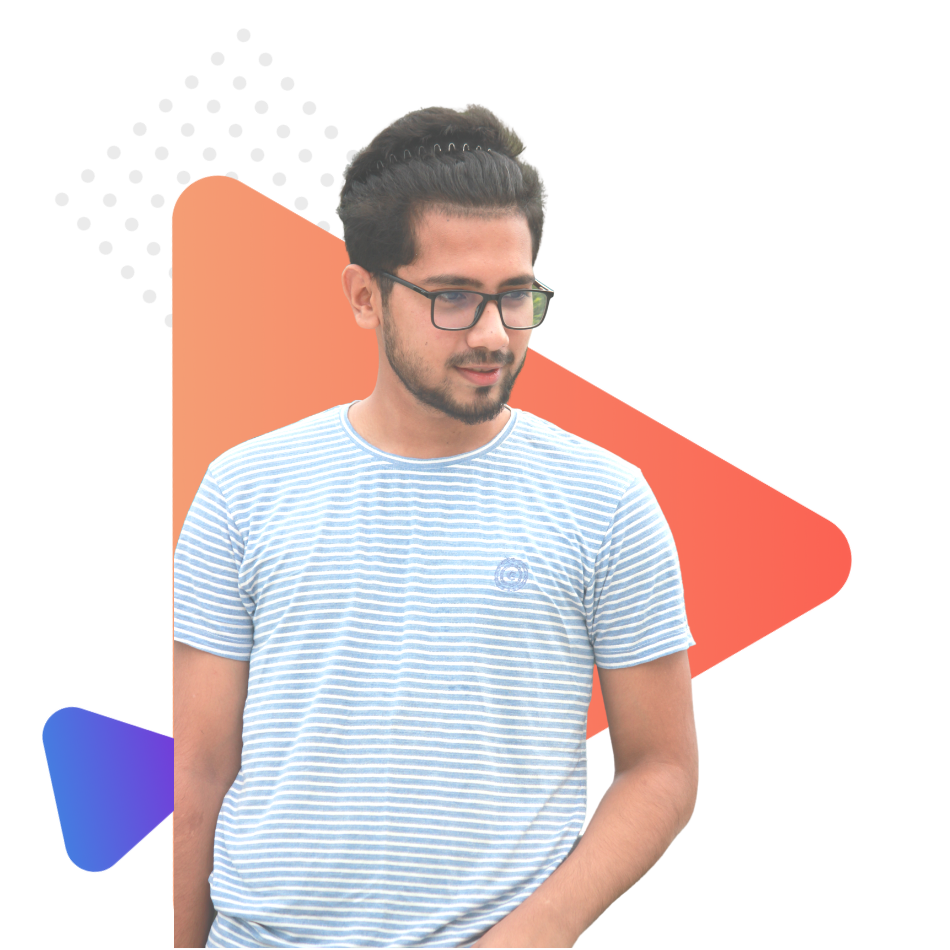
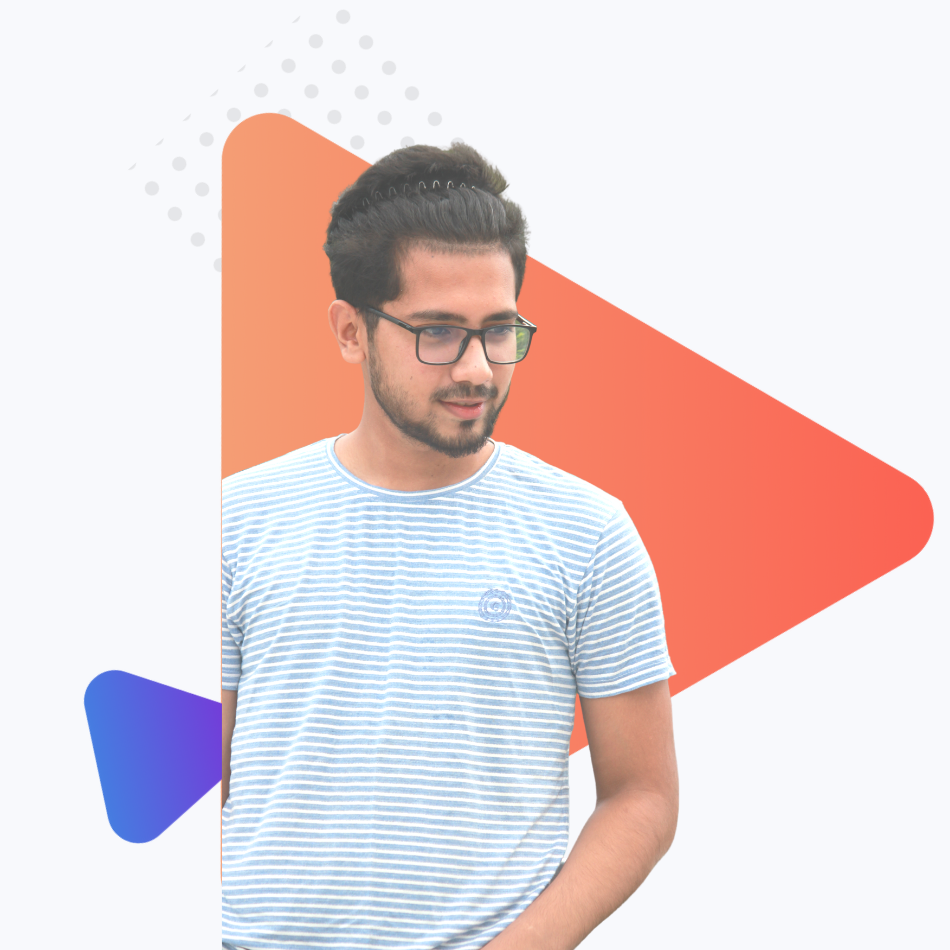
final project

diff --git a/index.html b/index.html
@@ -5,8 +5,82 @@
     <meta http-equiv="X-UA-Compatible" content="IE=edge">
     <meta name="viewport" content="width=device-width, initial-scale=1.0">
     <title>Personal Website by Maruf A. Ariyan</title>
+    <link rel="preconnect" href="https://fonts.googleapis.com">
+    <link rel="preconnect" href="https://fonts.gstatic.com" crossorigin>
+    <link href="https://fonts.googleapis.com/css2?family=STIX+Two+Math&display=swap" rel="stylesheet"> 
+    <link rel="stylesheet" href="style.css">
 </head>
 <body>
-    
+
+<!-- start header area -->
+
+<section class="header-area">
+    <div class="header-item item1">
+        <h1 class="common">Hello I'm</h1>
+        <h1 class="name">Maruf A. Ariyan</h1>
+        <p>I am Maruf, a Front, and Back end Developer with more than 2 years of professional experience having a strong command of web designing HTML5, CSS3, Bootstrap5, JavaScript, React js, WordPress, MysQl, Python, and Django.I do custom design and development from scratch and all my work will be unique and modern with the latest technologies. </p>
+        <br>
+        <a href="https://www.facebook.com/kazi.ayanmahmud.39/" class="button">HIRE ME</a>
+    </div>
+    <div class="header-item item2">
+        <img class="header-img" src="image/me.png" alt="">
+    </div>
+</section>
+
+<!-- end header area -->
+
+<!-- start biography area -->
+
+<section class="bio-area">
+    <div class="bio-item">
+        <img class="bio-img" src="image/bio.png" alt="">
+    </div>
+    <div class="bio-item item3">
+        <h1 class="common">Biography</h1>
+        <p>Hey! I'm Maruf A. Ariyan. Lorem ipsum dolor sit amet consectetur adipisicing elit. Officia impedit facilis tempora dignissimos expedita mollitia, laboriosam atque dicta. Lorem ipsum dolor, sit amet consectetur adipisicing elit. Amet consectetur illo itaque deleniti non sit qui rem, eaque quo? Lorem ipsum dolor sit amet, consectetur adipisicing elit. Et, molestias. </p>
+
+        <br>
+        <a href="" class="button">DOWNLOAD CV</a>
+    </div>
+</section>
+
+<!-- end biography area -->
+
+<!-- start work area -->
+
+<section class="work-area">
+    <h1 class="common work-header ">My Latest Work</h1>
+    <div class="work-item">
+        <img src="image/latest-work/work-1.png" alt="">
+    </div>
+    <div class="work-item">
+        <img src="image/latest-work/work-2.jpg" alt="">
+    </div>
+    <div class="work-item ">
+        <img src="image/latest-work/work-3.jpg" alt="">
+    </div>
+</section>
+
+<!-- end work area -->
+<footer>
+    <h1 class="common work-header">
+        What Client Are Say
+    </h1>
+    <h2 class="person">Bruce Moccy</h2>
+    <p class="person">Founder & CEO Alies</p>
+    <p class="say">" Lorem ipsum dolor sit amet consectetur, adipisicing elit. <br>
+    Magni dicta accusamus obcaecati aperiam nam, voluptatem veniam illum. <br> Impedit corporis nemo sint harum quasi laudantium voluptas distinctio nihil autem laborum."</p>
+    <div class="contact">
+        <span>Leave me a message in the</span> <br>
+        <br>
+        <span class="email">
+            official.maruf52@gmail.com
+        </span>
+    </div>
+    <p class="person">Copyright © 2021 All Right Reserve By Maruf A. Ariyan.</p>
+
+                
+
+</footer>
 </body>
 </html>

diff --git a/style.css b/style.css
@@ -1,0 +1,136 @@
+body{
+    margin: 0;
+    padding: 0;
+    font-family: 'STIX Two Math', serif;
+}
+/* start header area */
+.name{
+    color: #EC4C7A;
+    font-size: 50px;
+}
+.common{
+    font-size: 40px;
+}
+.header-item{
+    width: 40%;
+    float: left;
+    margin-left: 5%;
+    padding-left: 2%;
+    padding-top: 70px;
+}
+section p{
+    color: dimgray;
+    font-size: 18px;
+}
+.item1{
+    position: left;
+    align-content: center;
+    padding-top: 180px;
+    padding-left: 100px;
+}
+.item2{
+    margin-left: 3%;
+}
+.header-img{
+    width: 100%;
+}
+.header-area{
+    height: 900px;
+    background-image: url(image/header-bg.png);
+    background-repeat: no-repeat;
+    
+}
+.button{
+    text-decoration: none;
+    font-weight: 700;
+    background: linear-gradient(45deg, #ff73ab, #EC4C7A);
+    padding: 20px 40px;
+    color: white;
+    border-radius: 5px;
+}
+/* end header area */
+
+/* start biography area */
+
+.bio-item{
+    width: 40%;
+    float: left;
+    margin-left: 5%;
+    padding-left: 2%;
+    padding-top: 80px;
+}
+.bio-img{
+    width: 100%;
+    
+}
+.bio-area{
+    height: 900px;
+    background-image: url(image/biography-bg.png);
+    background-repeat: no-repeat;
+}
+.item3{
+    position: left;
+    align-content: center;
+    padding-top: 250px;
+    padding-right: 100px;
+}
+/* end biography area */
+
+/* start work area */
+
+.work-item img{
+    width:29.33%;
+    float: left;
+    margin-left: 3%;
+
+}
+.work-header{
+    text-align: center;
+    padding-bottom: 80px;
+}
+.work-area{
+    height: 600px;
+    background-image: url(image/latest-work-bg.png);
+    background-repeat: no-repeat;
+    padding-top: 120px;
+    
+}
+footer p{
+    color: dimgray;
+}
+.say{
+    color: black;
+    font-size: 20px;
+    margin-bottom: 50px;
+    text-align: center;
+}
+h2{
+    font-size: 30px;
+    font-weight: 100;
+}
+.contact{
+    background: linear-gradient(45deg, #EC4F90, #ED4B6E);
+    padding: 50px 20px;
+    text-align: center;
+    color: white;
+    width: 45%;
+    height: 80px;
+    margin: auto;
+    border-radius: 10px;
+    margin-bottom: 80px;
+    font-size: 20px;
+}
+.email{
+    font-size: 25px;
+    font-weight: 700;
+    
+    
+}
+footer{
+    background-image: url(image/footer-bg.png);
+    height: 700px;
+    padding-top: 120px;
+}
+.person{
+    text-align: center;
+}
